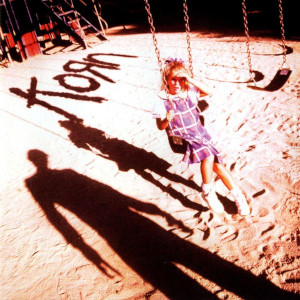
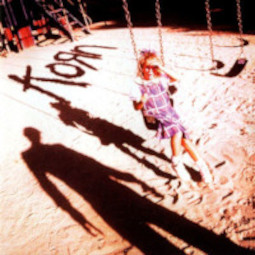
Patch da responsividade das imagens

diff --git a/index.html b/index.html
@@ -43,8 +43,8 @@
 
             <p>O Korn surgiu em Bakersfield, Califórnia, uma cidade conhecida por sua cultura country e um tanto quanto distante da vibrante cena musical de Los Angeles. Essa origem inesperada é uma das características mais marcantes da banda, que conseguiu transformar um som pesado e experimental em um fenômeno global.</p>
 
-            <div id="fotobanda">
-                <img src="imagens/download.jpeg" alt="Foto da banda Korn">
+            <div id="fotobanda"> 
+                <img src="imagens/download.jpeg" alt="Foto banda KoRn">
             </div>
 
         </article>
@@ -65,11 +65,7 @@
             href="https://open.spotify.com/intl-pt/album/7D3XFJlfZIkmGWqZXm2X8z?si=v53hGPDBTkG2zahxuoK3RA"><h2>Korn (1994)</h2></a>
 
             <div class="albuns">
-            
-                <picture>
-                    <source media="(max-width: 300px)" srcset="Korn-Kornmenor.jpeg" type="image/jpeg">
-                    <img src="imagens/Korn-Korn.jpeg" alt="Albun Korn de 1994">
-                </picture>
+                <img src="imagens/Korn-Korn.jpeg" alt="Albun Korn de 1994">
             </div>
 
             <p>O primeiro álbum autointitulado do Korn, lançado em 1994, foi um marco na história do rock. Com seu som pesado, e suas musicas 
